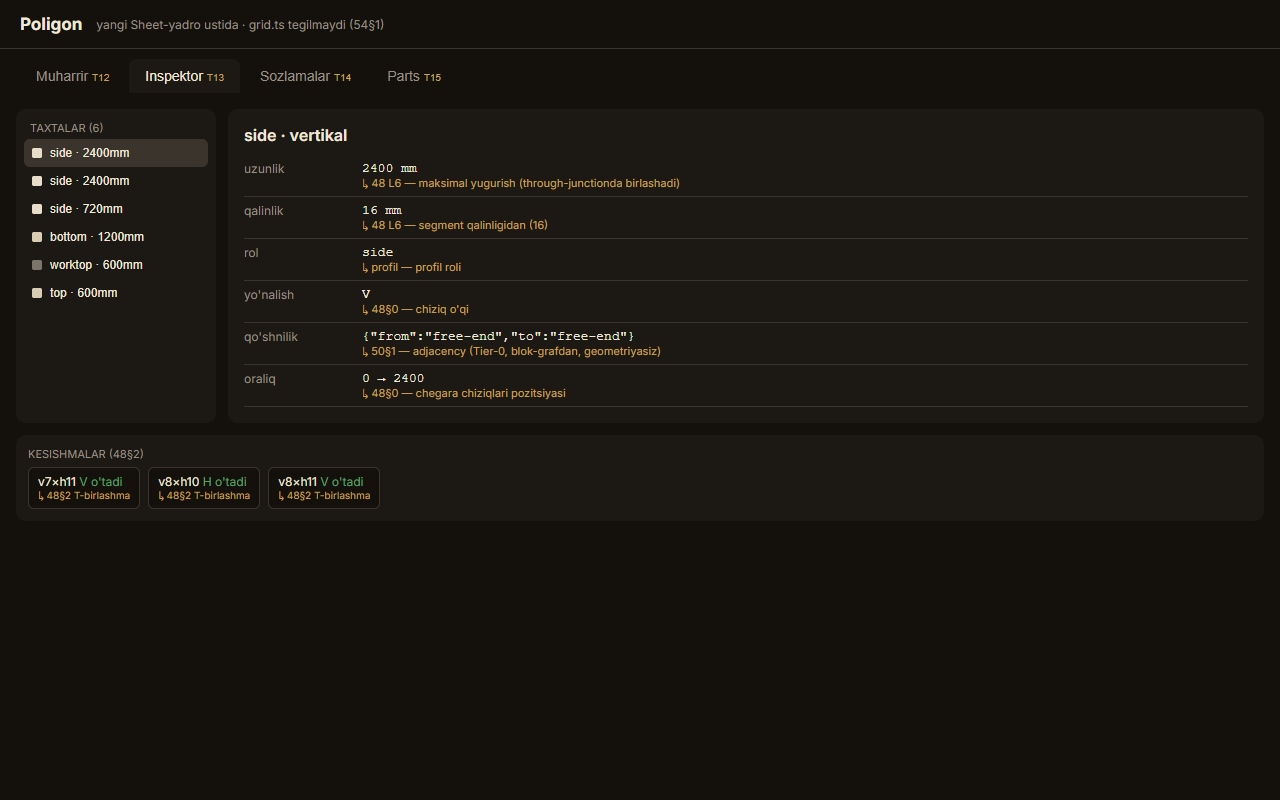
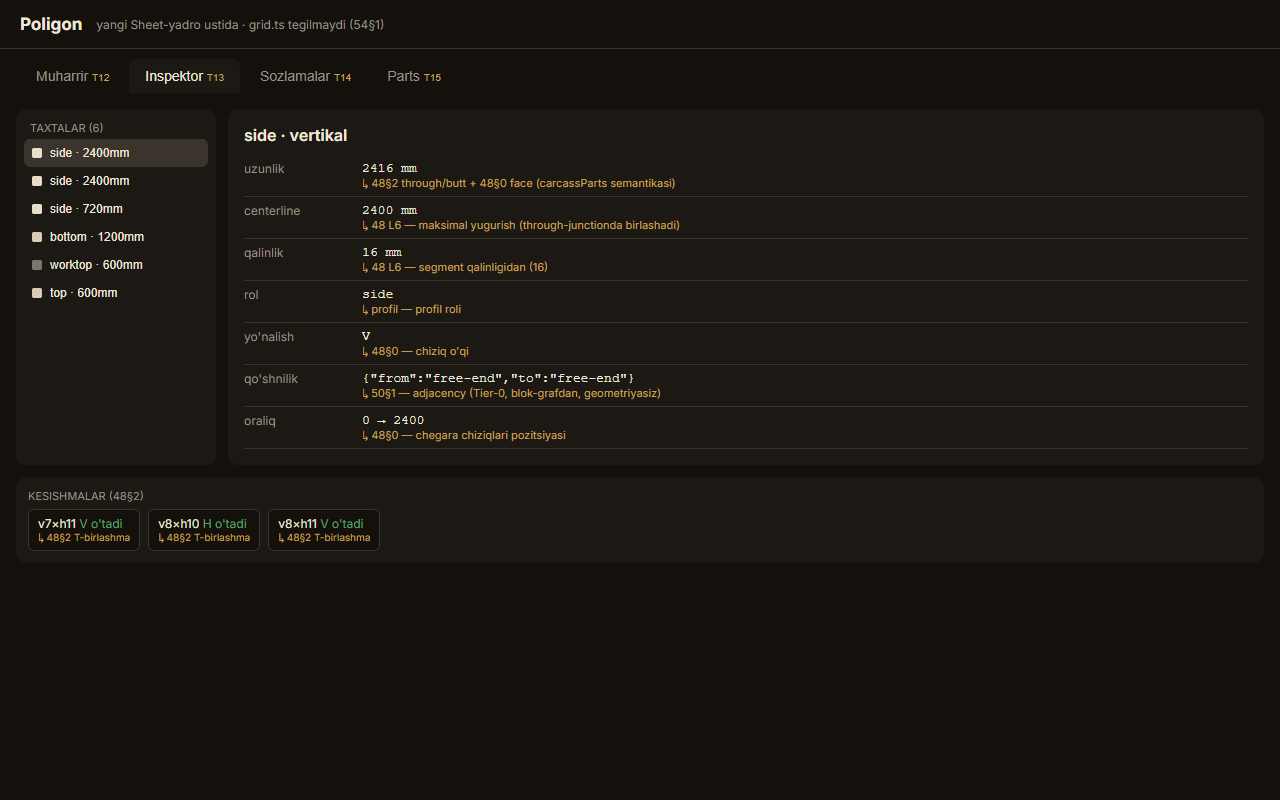
fix(A4): junction-aware board extents + 48§2 SPANNING-BLOK — burchak/overlap tuzatildi
- finishedExtent: cap=+perpT/2, butt=-perpT/2 (48§0 face) + 48§2 through/butt.
- Founderning aniq raqami: V-through quti top=768/side=800 (carcassParts oracle bilan bir xil).
- XATO tuzatildi: birinchi urinish faqat RANK ishlatib spanning-blok qoidasini o'tkazib yubordi →
  ish-stoli spanning penal ICHIGA kirdi (592). perpSpansL qo'shildi (48§2: span → butt, rankdan ustun);
  endi worktop=608, overlap yo'q. Test bilan qulflandi.
- UI (SheetEditor/PartsView/Inspector) finished extentga o'tkazildi. 101→ node 101/101, typecheck 0, build ok.

diff --git a/apps/app/src/poligon/model/derive.ts b/apps/app/src/poligon/model/derive.ts
@@ -6,7 +6,7 @@
 // O'ylab topilgan hech narsa yo'q — kompozitsiya.
 
 import type { Sheet, Line, LineId, Axis, Refusal } from "./contracts.ts";
-import { getThickness } from "./sheet.ts";
+import { getThickness, lineById } from "./sheet.ts";
 import { boardRuns, type Board, type ThroughAt } from "./board.ts";
 import { deriveModules, transportCheck, type Module, type TransportLimit } from "./module.ts";
 import { resolveThrough, classify, type Role, type Through, type Override, type JClass } from "./junction.ts";
@@ -22,8 +22,13 @@ export interface Profile {
 export interface DerivedPart {
   board: Board;
   role: Role | "unknown";
+  /** A4/48§2: junction-aware FIZIK uzunlik (through=cap tashqariga, butt=ichkariga; face=pos±t/2, 48§0).
+   *  centerline `board.length` dan farqli — bu HAQIQIY kesim uzunligi. */
+  finishedFrom: number;
+  finishedTo: number;
+  finishedLength: number;
   facets: { role: Role | "unknown"; axis: Axis; adjacency: Record<string, Adjacency> };
-  provenance: { thickness: string; role: string };
+  provenance: { thickness: string; role: string; length: string };
 }
 export interface DerivedJunction {
   vLine: LineId; hLine: LineId; pos: { x: number; y: number };
@@ -112,12 +117,15 @@ export function derive(sheet: Sheet, profile: Profile, _rules: unknown[] = []): 
   const parts: DerivedPart[] = boards.map((b) => {
     const role = roleOf(b.line);
     const topo = panelTopo(b, role);
+    const ext = finishedExtent(sheet, profile, b);
     return {
       board: b, role,
+      finishedFrom: ext.from, finishedTo: ext.to, finishedLength: ext.length,
       facets: { role, axis: b.axis, adjacency: computeAdjacency(topo) },
       provenance: {
         thickness: `48 L6 — segment qalinligidan (${b.thickness})`,
         role: profile.roles[b.line] ? "profil roli" : "rol berilmagan",
+        length: ext.provenance,
       },
     };
   });
@@ -132,6 +140,51 @@ export function derive(sheet: Sheet, profile: Profile, _rules: unknown[] = []): 
   }
 
   return { parts, modules, junctions, refusals, provenance };
+}
+
+/**
+ * A4 — junction-aware FIZIK extent. ASOS: 48§0 (face = pos ± t/2) + 48§2 (through=to'liq cap; butt=qisqaradi)
+ * + carcassParts semantikasi (T2 gate, 800→768). O'ylab topilган formula EMAS — face + through/butt.
+ * Har uchi (from/to) perp chiziqda: L o'sha junctionда O'TSA (cap) → tashqariga +perpT/2; BUTT bo'lsa
+ * (perp o'tadi) → ichkariga −perpT/2. Rol yo'q / tenglik → tuzatilmaydi (centerline saqlanadi, taxmin yo'q).
+ */
+function finishedExtent(sheet: Sheet, profile: Profile, b: Board): { from: number; to: number; length: number; provenance: string } {
+  const L = lineById(sheet, b.line);
+  if (!L) return { from: b.from, to: b.to, length: b.to - b.from, provenance: "chiziq topilmadi — centerline" };
+  const perpLines = L.axis === "V" ? sheet.hLines : sheet.vLines;
+
+  // P (perp chiziq) ning L ga yondosh segmentlari (L o'qi bo'yicha ikki tomon)
+  const perpAdjSegs = (P: Line): { left: number; right: number } => {
+    const axisLines = L.axis === "V" ? sheet.vLines : sheet.hLines; // L ga parallel chiziqlar
+    const idx = axisLines.findIndex((l) => l.id === L.id);
+    const left = idx > 0 ? getThickness(sheet, P.id, axisLines[idx - 1]!.id, L.id) : 0;
+    const right = idx < axisLines.length - 1 ? getThickness(sheet, P.id, L.id, axisLines[idx + 1]!.id) : 0;
+    return { left, right };
+  };
+  const perpAdjT = (P: Line): number => { const s = perpAdjSegs(P); return Math.max(s.left, s.right); };
+  // 48§2 SPANNING-BLOK: P chizig'i L ni ikki tomondan qamrasa (ikkala segment ≠0) → P SPANS → B BUTT qiladi
+  // (yuqori rank ham buni buzolmaydi; spanning blok ichida taxta o'smaydi — founder ta'kidlagan qoida).
+  const perpSpansL = (P: Line): boolean => { const s = perpAdjSegs(P); return s.left !== 0 && s.right !== 0; };
+
+  // uchdagi qaror: caps(true=cap/tashqari) | butt(false/ichkari) | null(aniqlanmadi → tuzatilmaydi)
+  const decide = (perpPos: number): { caps: boolean | null; perpT: number } => {
+    const P = perpLines.find((l) => l.pos === perpPos);
+    if (!P) return { caps: null, perpT: 0 }; // perp yo'q (erkin uch) → tuzatmaymiz
+    const perpT = perpAdjT(P);
+    if (perpSpansL(P)) return { caps: false, perpT }; // 48§2 spanning → B butt (rankdan OLDIN, ustun)
+    const roleL = profile.roles[L.id];
+    const roleP = profile.roles[P.id];
+    if (!roleL || !roleP) return { caps: null, perpT }; // rol yo'q → taxmin yo'q
+    const dec = L.axis === "V" ? resolveThrough(roleL, roleP) : resolveThrough(roleP, roleL);
+    if (typeof dec === "object" || dec === "neither") return { caps: null, perpT }; // tenglik/both → tuzatmaymiz
+    return { caps: dec === L.axis, perpT }; // dec L o'qida bo'lsa L o'tadi (cap); aks holda butt
+  };
+
+  const lo = decide(b.from);
+  const hi = decide(b.to);
+  const from = lo.caps === null ? b.from : lo.caps ? b.from - lo.perpT / 2 : b.from + lo.perpT / 2;
+  const to = hi.caps === null ? b.to : hi.caps ? b.to + hi.perpT / 2 : b.to - hi.perpT / 2;
+  return { from, to, length: to - from, provenance: "48§2 through/butt + 48§0 face (carcassParts semantikasi)" };
 }
 
 /** Board uchun sodda topologiya (Tier-0). Blok-graf to'liq qo'shnilik T7/T10 da kengayadi. */

diff --git a/apps/app/src/poligon/ui/SheetEditor.tsx b/apps/app/src/poligon/ui/SheetEditor.tsx
@@ -2,7 +2,7 @@
 // QONUNIY oraliq; L5a hech nimani tugatmagan chiziq XIRA; gesture bilan noqonuniy holatga yetib bo'lmaydi;
 // sudrash JIMGINA clamp qilmaydi). Faqat §2 API (poligon/index.ts) orqali — model/ ichiga tegmaydi.
 import { useRef, useState } from "react";
-import { apply, getThickness } from "../index.ts";
+import { apply, getThickness, derive } from "../index.ts";
 import type { Sheet, Profile, LineId, Thickness, Refusal } from "../index.ts";
 import { enumerateSegments, enclosedCells, sheetExtent, makeView, PAL, ROLE_COLOR } from "./view.ts";
 import { legalMoveRange } from "./legal.ts";
@@ -27,6 +27,11 @@ export function SheetEditor({ sheet, profile, selLine, onSelectLine, onSheet, on
   const view = makeView(ext, W, H);
   const segs = enumerateSegments(sheet);
   const cells = enclosedCells(sheet); // ichki bo'shliqlar (shading uchun; o'lchamга tegmaydi)
+  const parts = derive(sheet, profile).parts; // A4: junction-aware finished extent (burchaklar yopiladi)
+  const committedPos = (id: LineId): number => {
+    const ln = sheet.vLines.find((l) => l.id === id) ?? sheet.hLines.find((l) => l.id === id);
+    return ln ? ln.pos : 0;
+  };
 
   // L5a: chiziq biror segmentда taxtaga egami (tugatadimi)?
   const hasBoard = (id: LineId, axis: "V" | "H"): boolean => {
@@ -43,10 +48,6 @@ export function SheetEditor({ sheet, profile, selLine, onSelectLine, onSheet, on
   // MUHARRIR affordance: taxta ekranда kamida MINPX px ko'rinsin — 16mm ~3px "chiziqli" ko'rinmasin,
   // to'liq 2D panel bo'lsin. Bu FAQAT muharrir; Parts (T15) true-scale saqlaydi.
   const MINPX = 4;
-  const posById = (id: LineId): number => {
-    const ln = sheet.vLines.find((l) => l.id === id) ?? sheet.hLines.find((l) => l.id === id);
-    return ln ? linePos(id, ln.pos) : 0;
-  };
 
   // ── qalinlik tsikli (setThickness, L0 commit) ──────────────────────────────
   const cycleSeg = (line: LineId, lo: LineId, hi: LineId, t: Thickness): void => {
@@ -104,22 +105,29 @@ export function SheetEditor({ sheet, profile, selLine, onSelectLine, onSheet, on
           : <rect x={view.pad} y={view.sy(drag.max)} width={W - 2 * view.pad} height={view.sy(drag.min) - view.sy(drag.max)} fill={PAL.ok} opacity={0.12} />
         )}
 
-        {/* segmentlar (taxtalar) — to'liq panel (min ko'rinish qalinligi), rol rangida */}
-        {segs.map((s, i) => {
-          const lineLive = posById(s.line);
-          const loLive = posById(s.lo);
-          const hiLive = posById(s.hi);
-          const half = Math.max(view.scale * s.t / 2, MINPX / 2);
+        {/* taxtalar (RUN, junction-aware FINISHED extent — A4: burchaklar yopiladi, uzunlik to'g'ri) */}
+        {parts.map((p, i) => {
+          const b = p.board;
+          const half = Math.max(view.scale * b.thickness / 2, MINPX / 2);
           let x0: number, x1: number, y0: number, y1: number;
-          if (s.axis === "V") { const cx = view.sx(lineLive); x0 = cx - half; x1 = cx + half; y0 = view.sy(hiLive); y1 = view.sy(loLive); }
-          else { const cy = view.sy(lineLive); y0 = cy - half; y1 = cy + half; x0 = view.sx(loLive); x1 = view.sx(hiLive); }
+          if (b.axis === "V") { const cx = view.sx(committedPos(b.line)); x0 = cx - half; x1 = cx + half; y0 = view.sy(p.finishedTo); y1 = view.sy(p.finishedFrom); }
+          else { const cy = view.sy(committedPos(b.line)); y0 = cy - half; y1 = cy + half; x0 = view.sx(p.finishedFrom); x1 = view.sx(p.finishedTo); }
           return (
-            <rect key={"seg" + i} x={Math.min(x0, x1)} y={Math.min(y0, y1)}
+            <rect key={"board" + i} x={Math.min(x0, x1)} y={Math.min(y0, y1)}
               width={Math.abs(x1 - x0)} height={Math.abs(y1 - y0)}
-              fill={roleColor(s.line)} stroke={s.t === 32 ? PAL.accent : "#00000055"} strokeWidth={s.t === 32 ? 2 : 1}
-              onClick={(e) => { e.stopPropagation(); cycleSeg(s.line, s.lo, s.hi, s.t); }}
-              style={{ cursor: "pointer" }}
-            >
+              fill={roleColor(b.line)} stroke={b.thickness === 32 ? PAL.accent : "#00000066"} strokeWidth={b.thickness === 32 ? 2 : 1} />
+          );
+        })}
+
+        {/* ko'rinmas bosish-zonasi: har segment ustida (qalinlik 0→16→32 tsikli) */}
+        {segs.map((s, i) => {
+          const half = Math.max(view.scale * s.t / 2, 6);
+          let x0: number, x1: number, y0: number, y1: number;
+          if (s.axis === "V") { const cx = view.sx(committedPos(s.line)); x0 = cx - half; x1 = cx + half; y0 = view.sy(committedPos(s.hi)); y1 = view.sy(committedPos(s.lo)); }
+          else { const cy = view.sy(committedPos(s.line)); y0 = cy - half; y1 = cy + half; x0 = view.sx(committedPos(s.lo)); x1 = view.sx(committedPos(s.hi)); }
+          return (
+            <rect key={"hit" + i} x={Math.min(x0, x1)} y={Math.min(y0, y1)} width={Math.abs(x1 - x0)} height={Math.abs(y1 - y0)}
+              fill="transparent" onClick={(e) => { e.stopPropagation(); cycleSeg(s.line, s.lo, s.hi, s.t); }} style={{ cursor: "pointer" }}>
               <title>{`qalinlik ${s.t} → bosilsa ${CYCLE[s.t]} (48 L0)`}</title>
             </rect>
           );

diff --git a/apps/app/tests/poligon/derive.test.ts b/apps/app/tests/poligon/derive.test.ts
@@ -3,7 +3,7 @@ import { test } from "node:test";
 import assert from "node:assert/strict";
 import { createSheet, addLine, setThickness } from "../../src/poligon/model/sheet.ts";
 import { derive, type Profile } from "../../src/poligon/model/derive.ts";
-import type { Role } from "../../src/poligon/model/junction.ts";
+import { carcassParts, type Role } from "../../src/poligon/model/junction.ts";
 
 test("T3-GATE: penal + baza umumiy YON chiziqni bo'lishsa → BITTA 2400 taxta (T-birlashma, kesilmaydi)", () => {
   const s = createSheet();
@@ -78,6 +78,66 @@ test("48§2: X-kesishmada rol berilmagan → profile.roleMissing RAD", () => {
   const roles: Record<string, Role> = { [v0]: "side", [v2]: "side", [h0]: "bottom", [h2]: "top" }; // v1,h1 yo'q
   const d = derive(s, { roles });
   assert.ok(d.refusals.some((r) => r.rule === "profile.roleMissing"));
+});
+
+test("A4/48§2: V-through quti — top = W−2t = 768, side = H (founderning aniq 800→768 raqami)", () => {
+  // outer W=800: v0=0, v1=784 (centerline farqi 784, +t=800 tashqi). H ham 800.
+  const s = createSheet();
+  const v0 = addLine(s, "V", 0).id, v1 = addLine(s, "V", 784).id;
+  const h0 = addLine(s, "H", 0).id, h1 = addLine(s, "H", 784).id;
+  setThickness(s, v0, h0, h1, 16); setThickness(s, v1, h0, h1, 16);
+  setThickness(s, h0, v0, v1, 16); setThickness(s, h1, v0, v1, 16);
+  // side(4) > top/bottom(3) → V-through (sidelar to'liq, top/bottom butt)
+  const roles: Record<string, Role> = { [v0]: "side", [v1]: "side", [h0]: "bottom", [h1]: "top" };
+  const d = derive(s, { roles });
+
+  const expect = carcassParts(800, 800, 16, "V"); // {top:768, bottom:768, side:800}
+  const top = d.parts.find((p) => p.role === "top")!;
+  const side = d.parts.find((p) => p.role === "side")!;
+  assert.equal(top.finishedLength, 768, "top = W−2t = 768 (48§2)");
+  assert.equal(top.finishedLength, expect.top, "carcassParts oracle bilan bir xil");
+  assert.equal(side.finishedLength, 800, "side = H tashqi = 800");
+  assert.equal(side.finishedLength, expect.side, "carcassParts oracle bilan bir xil");
+  // centerline board.length o'zgarmaydi (additive) — top 784, side 784
+  assert.equal(top.board.length, 784);
+});
+
+test("A4/48§2: H-through (ikkala gorizontal worktop) → side = H−2t (carcassParts oracle)", () => {
+  const s = createSheet();
+  const v0 = addLine(s, "V", 0).id, v1 = addLine(s, "V", 784).id;
+  const h0 = addLine(s, "H", 0).id, h1 = addLine(s, "H", 784).id;
+  setThickness(s, v0, h0, h1, 16); setThickness(s, v1, h0, h1, 16);
+  setThickness(s, h0, v0, v1, 16); setThickness(s, h1, v0, v1, 16);
+  // ikkala gorizontal worktop(5) > side(4) → H-through (gorizontallar to'liq, sidelar butt)
+  const roles: Record<string, Role> = { [v0]: "side", [v1]: "side", [h0]: "worktop", [h1]: "worktop" };
+  const d = derive(s, { roles });
+  const expect = carcassParts(800, 800, 16, "H"); // {top:800, side:768}
+  const side = d.parts.find((p) => p.role === "side")!;
+  const wtop = d.parts.find((p) => p.role === "worktop")!;
+  assert.equal(side.finishedLength, 768, "side = H−2t = 768");
+  assert.equal(side.finishedLength, expect.side);
+  assert.equal(wtop.finishedLength, 800, "worktop = W tashqi = 800");
+  assert.equal(wtop.finishedLength, expect.top);
+});
+
+test("A4/48§2 SPANNING-BLOK: ish-stoli poldan-shiftgacha penal yon (span) ichiga KIRMAYDI — butt 608, overlap yo'q", () => {
+  // penal (chap, v0..v1, 0..2400) + baza (o'ng, v1..v2, 0..720). v1 = umumiy poldan-shiftgacha SIDE (span).
+  const s = createSheet();
+  const v0 = addLine(s, "V", 0).id, v1 = addLine(s, "V", 600).id, v2 = addLine(s, "V", 1200).id;
+  const h0 = addLine(s, "H", 0).id, h1 = addLine(s, "H", 720).id, h2 = addLine(s, "H", 2400).id;
+  setThickness(s, v0, h0, h1, 16); setThickness(s, v0, h1, h2, 16);
+  setThickness(s, v1, h0, h1, 16); setThickness(s, v1, h1, h2, 16); // v1 SPANS 0..2400
+  setThickness(s, v2, h0, h1, 16);
+  setThickness(s, h0, v0, v1, 16); setThickness(s, h0, v1, v2, 16);
+  setThickness(s, h1, v1, v2, 16); // ish-stoli faqat baza (v1..v2)
+  setThickness(s, h2, v0, v1, 16);
+  const roles: Record<string, Role> = { [v0]: "side", [v1]: "side", [v2]: "side", [h0]: "bottom", [h1]: "worktop", [h2]: "top" };
+  const d = derive(s, { roles });
+  const wtop = d.parts.find((p) => p.role === "worktop")!;
+  // worktop(5) > side(4), LEKIN v1 SPANS → 48§2: worktop v1 ning ICHKI yuzasiga (600+8=608) butt qiladi,
+  // rank g'olib bo'lsa ham penal ICHIGA (592) KIRMAYDI.
+  assert.equal(wtop.finishedFrom, 608, "spanning penal ichiga kirmaydi (butt 608)");
+  assert.ok(wtop.finishedFrom >= 600, "hech qachon side markazidan (600) chap tomonга o'tmaydi");
 });
 
 test("T4: transport — modul eni ruxsatdan katta → transport RAD", () => {

diff --git a/apps/app/src/poligon/ui/PartsView.tsx b/apps/app/src/poligon/ui/PartsView.tsx
@@ -27,7 +27,7 @@ export function PartsView({ sheet, profile }: { sheet: Sheet; profile: Profile }
     role: p.role,
     boundingLines: [p.board.line, `${p.board.from}`, `${p.board.to}`],
     finishedW: p.board.thickness,
-    finishedH: p.board.length,
+    finishedH: p.finishedLength, // A4: junction-aware finished uzunlik (centerline emas)
     banding: bandingFor(p.role),
     grain: p.board.axis === "V" ? "L" : "W",
   }));
@@ -41,11 +41,11 @@ export function PartsView({ sheet, profile }: { sheet: Sheet; profile: Profile }
           {d.parts.map((p, i) => {
             const b = p.board;
             const t = b.thickness;
-            // elevatsiya: V taxta = tik slayder (pos±t/2 × from..to); H = yotiq
-            const X0 = b.axis === "V" ? view.sx(lineX(sheet, b.line) - t / 2) : view.sx(b.from);
-            const X1 = b.axis === "V" ? view.sx(lineX(sheet, b.line) + t / 2) : view.sx(b.to);
-            const Y0 = b.axis === "V" ? view.sy(b.to) : view.sy(lineY(sheet, b.line) + t / 2);
-            const Y1 = b.axis === "V" ? view.sy(b.from) : view.sy(lineY(sheet, b.line) - t / 2);
+            // elevatsiya: V taxta = tik (pos±t/2 × finished uzunlik); H = yotiq. A4: finished extent (burchak yopiladi)
+            const X0 = b.axis === "V" ? view.sx(lineX(sheet, b.line) - t / 2) : view.sx(p.finishedFrom);
+            const X1 = b.axis === "V" ? view.sx(lineX(sheet, b.line) + t / 2) : view.sx(p.finishedTo);
+            const Y0 = b.axis === "V" ? view.sy(p.finishedTo) : view.sy(lineY(sheet, b.line) + t / 2);
+            const Y1 = b.axis === "V" ? view.sy(p.finishedFrom) : view.sy(lineY(sheet, b.line) - t / 2);
             const band = bandingFor(p.role);
             const selHere = sel === i;
             return (

diff --git a/apps/app/src/poligon/ui/Inspector.tsx b/apps/app/src/poligon/ui/Inspector.tsx
@@ -47,7 +47,8 @@ export function Inspector({ sheet, profile }: { sheet: Sheet; profile: Profile }
             <div style={{ color: PAL.ink, fontSize: 16, fontWeight: 600, marginBottom: 10 }}>
               {part.role} · {part.board.axis === "V" ? "vertikal" : "gorizontal"}
             </div>
-            <Row label="uzunlik" value={`${part.board.length} mm`} rule="48 L6 — maksimal yugurish (through-junctionda birlashadi)" />
+            <Row label="uzunlik" value={`${part.finishedLength} mm`} rule={part.provenance.length} />
+            <Row label="centerline" value={`${part.board.length} mm`} rule="48 L6 — maksimal yugurish (through-junctionda birlashadi)" />
             <Row label="qalinlik" value={`${part.board.thickness} mm`} rule={part.provenance.thickness} />
             <Row label="rol" value={part.role} rule={`profil — ${part.provenance.role}`} />
             <Row label="yo'nalish" value={part.board.axis} rule="48§0 — chiziq o'qi" />

diff --git a/AUDIT.md b/AUDIT.md
@@ -34,9 +34,16 @@ junction through/butt (48§2) UZUNLIKKA ta'sir qilmayapti.** Kod bilan isbotland
   integratsiyalangan derive'ni emas** (test bo'shlig'i).
 - Konvensiya reconciliation (o'ylab topilmagan): founder 800→768 = W−2t → tashqi chiziqlar OUTER FACE devor
   chegarasida (L15: outer lines t/2 ichkarida). Mening seed'im outer l'ni pos=0/600 ga qo'ygan (L15 buzilgan).
-- **Xulosa:** to'g'ri tuzatish = **L15 (wall outer faces) + junction-aware board extents (faces=pos±t/2, 48§0)**.
-  Bu burchakni yopadi VA butun kesim uzunliklarini to'g'rilaydi. Test oracle = founder'ning 768/800 raqamlari.
-- **Ustuvorlik: YUQORI** (kesim ro'yxati aynan shu sababdan hozir noto'g'ri butt-uzunlik beradi).
+- **Xulosa:** to'g'ri tuzatish = junction-aware board extents (faces=pos±t/2, 48§0) + through/butt (48§2).
+  Test oracle = founder'ning 768/800 raqamlari.
+- ✅ **TUZATILDI (2026-09-09):** `derive.ts` `finishedExtent` — cap=+perpT/2, butt=−perpT/2 (48§0 face);
+  test: quti V-through top=768/side=800, H-through side=768 (carcassParts oracle bilan bir xil).
+- ⚠ **HALOL: birinchi urinishim NOTO'G'RI edi** — faqat RANK ishlatib (resolveThrough), `48`§2 ning
+  **spanning-blok** qoidasini qo'llamadim → ish-stoli poldan-shiftgacha penal yon ICHIGA kirdi (worktop
+  592, side 600 — OVERLAP). **Foydalanuvchi tutdi.** Tuzatildi: `perpSpansL` (P chizig'i L ni ikki tomondan
+  qamrasa → B butt, rankdan ustun — 48§2 "spanning blok ichida taxta o'smaydi"). Endi worktop=608 (butt),
+  overlap yo'q; test bilan qulflandi. Bu — "o'zimdan asossiz qo'shma" qoidasining aniq misoli: rank yetarli
+  emas edi, spanning shart edi.
 
 ## B. TASHLAB KETILGAN / STUB / SOXTA (skipped) — yo'q yoki yarim
 
